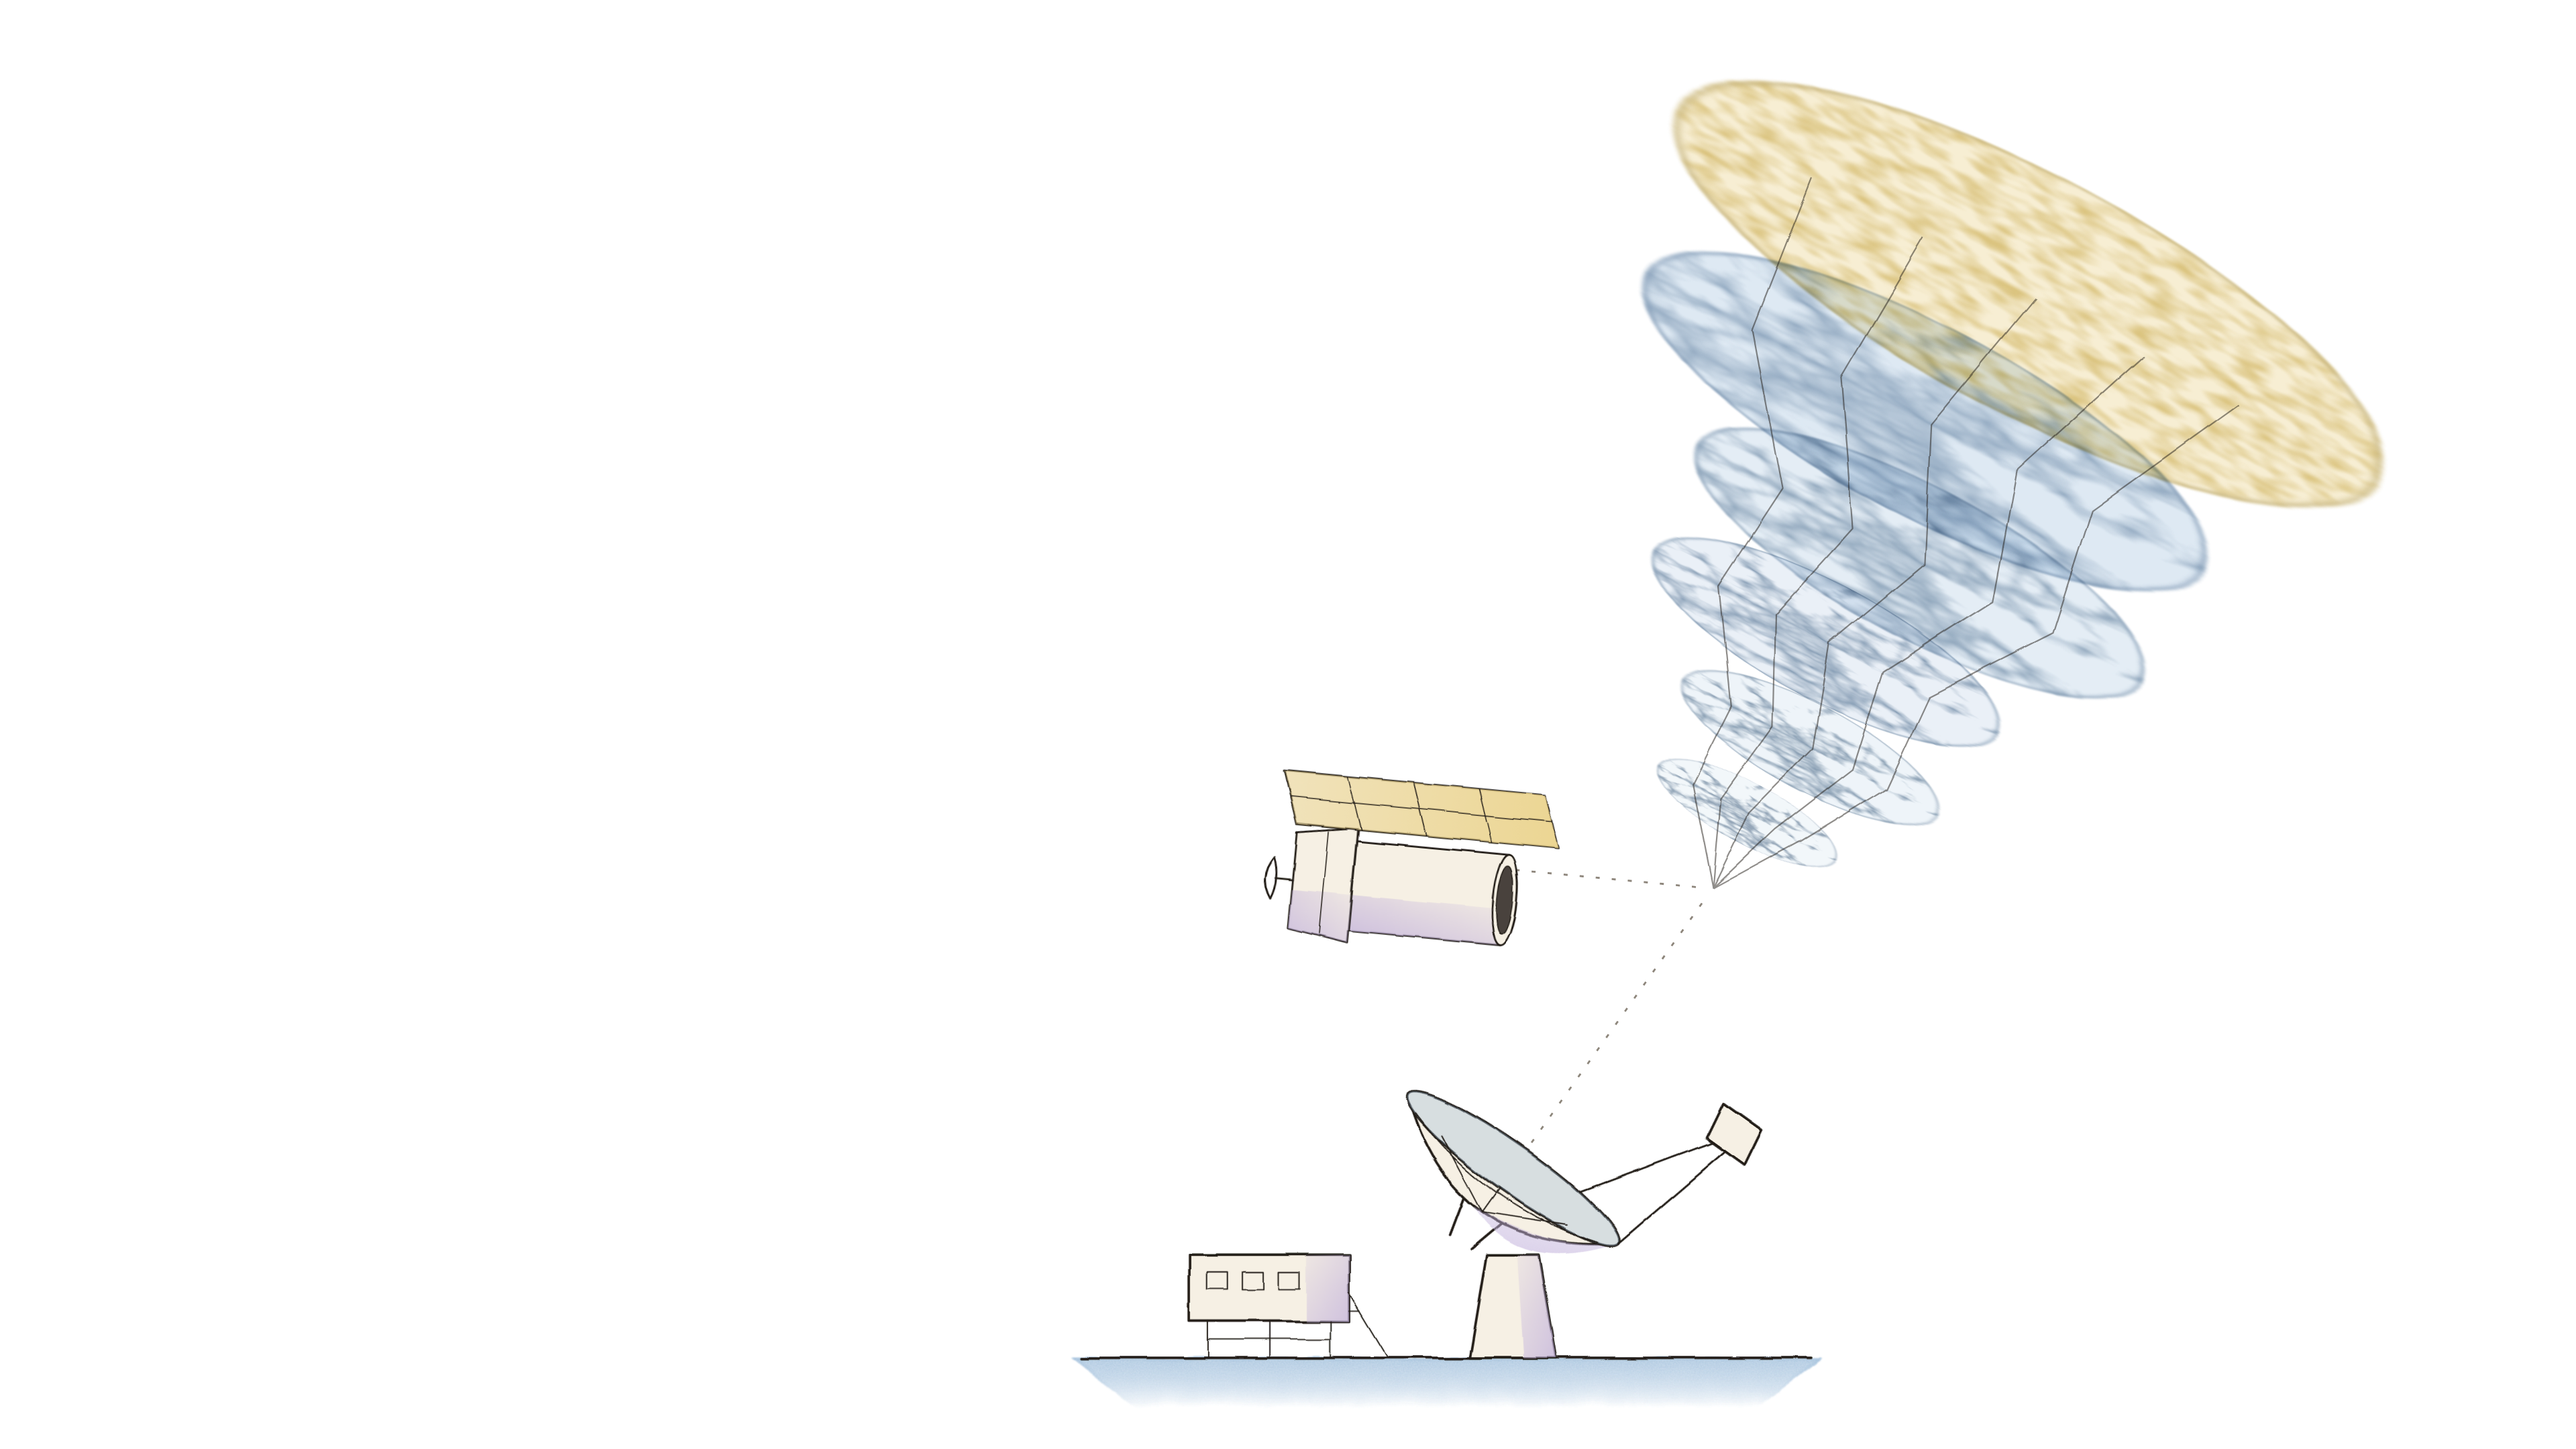
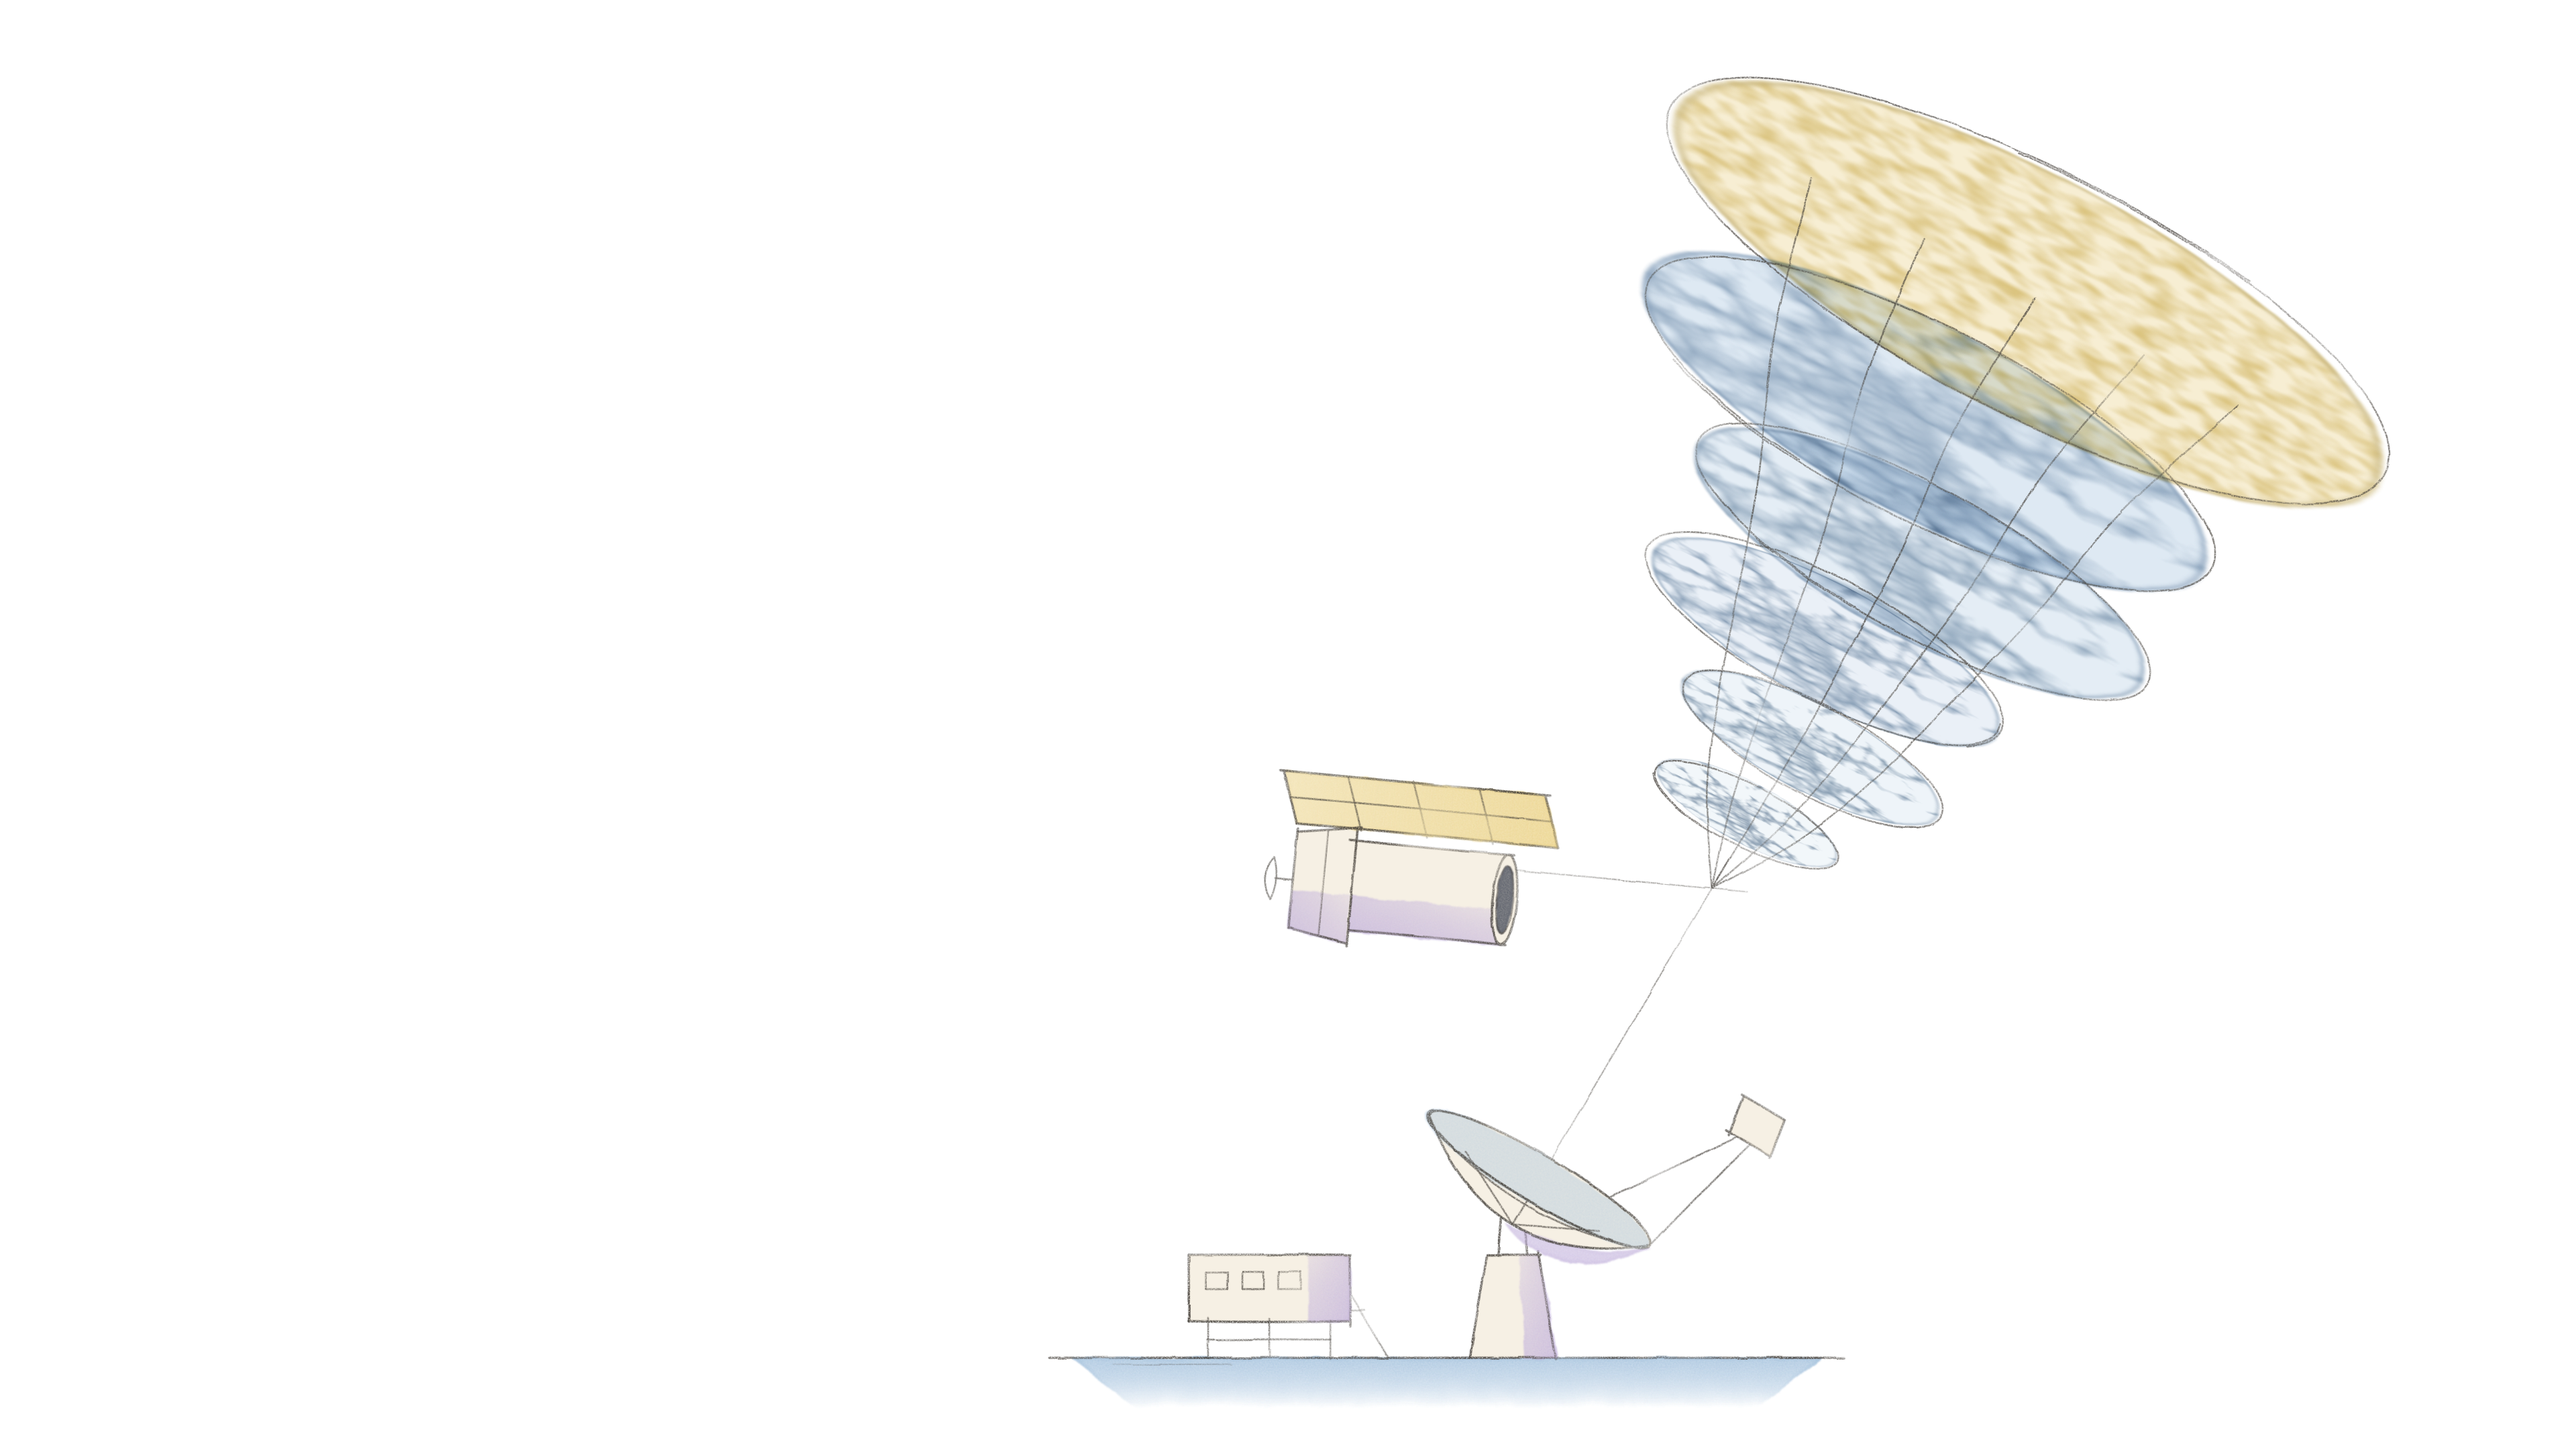
ICE art: pencil underdrawing with watercolour laid in
Title and section-opener drawings in graphite instead of pen: freehand
lines with overshoot, an ellipse traced round each redshift disc, rays
that bend smoothly, sight lines laid in through the meeting point, darks
in a Payne's grey wash, the SPT dish turned on a fork above its tower.

Claude-Session: https://claude.ai/code/session_01JK7o9EqRNxPAXekupzxUAP

diff --git a/2611_ICE_Barcelona/slides/title.html b/2611_ICE_Barcelona/slides/title.html
@@ -4,7 +4,7 @@
   <p class="affil">CosmoStat, CEA Paris-Saclay</p>
   <p class="venue">ICE-CSIC seminar, Barcelona</p>
   <p class="date">November 2026</p>
-  <figure class="art"><img src="images/ice_art_title.png" alt="Pen and watercolour drawing: Euclid, the South Pole Telescope and the Mauna Kea domes look up a cone of redshift slices to the CMB"></figure>
+  <figure class="art"><img src="images/ice_art_title.png" alt="Pencil and watercolour drawing: Euclid, the South Pole Telescope and the Mauna Kea domes look up a cone of redshift slices to the CMB"></figure>
   <aside class="notes">
     <ul class="skim">
       <li><strong>The talk</strong> — mocks that reproduce a survey's observational properties, and forward models built from the same techniques, in two analyses: a 6×2pt cross-correlation of Euclid and SPT-3G, and a new UNIONS shape catalog over more than 5,000 deg².</li>
